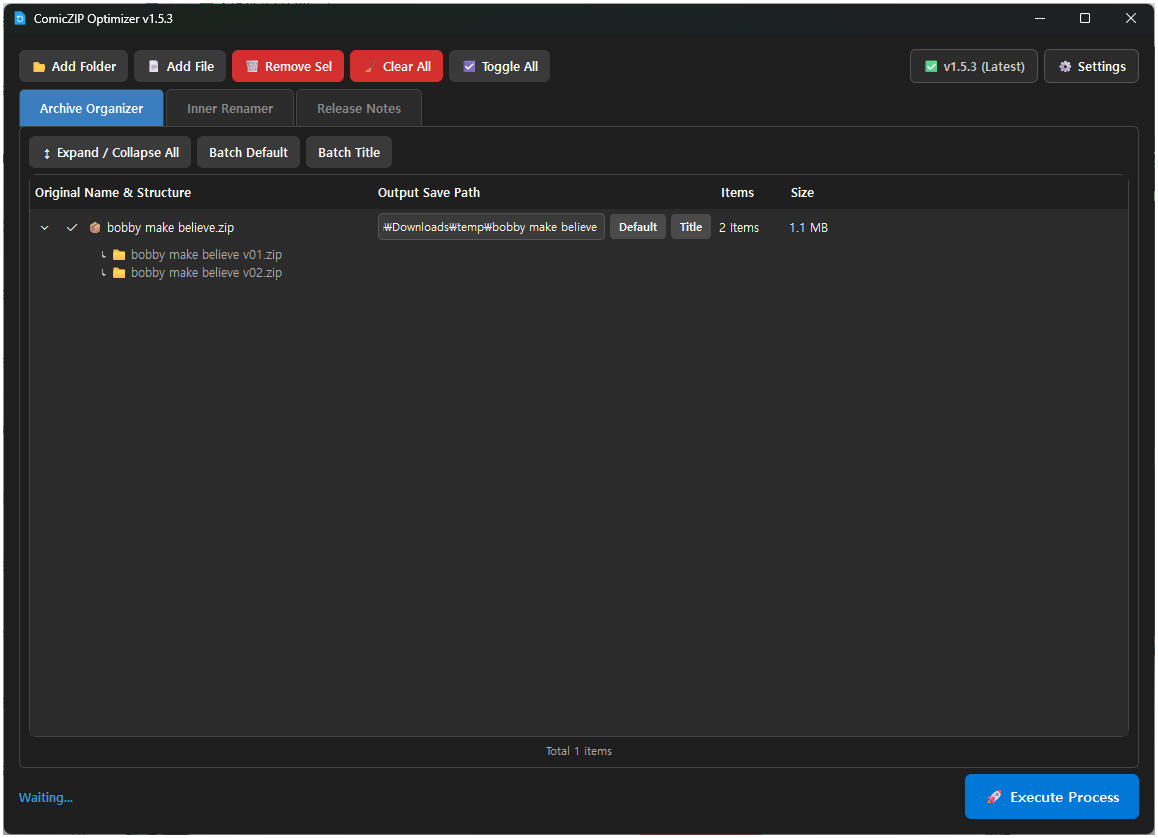
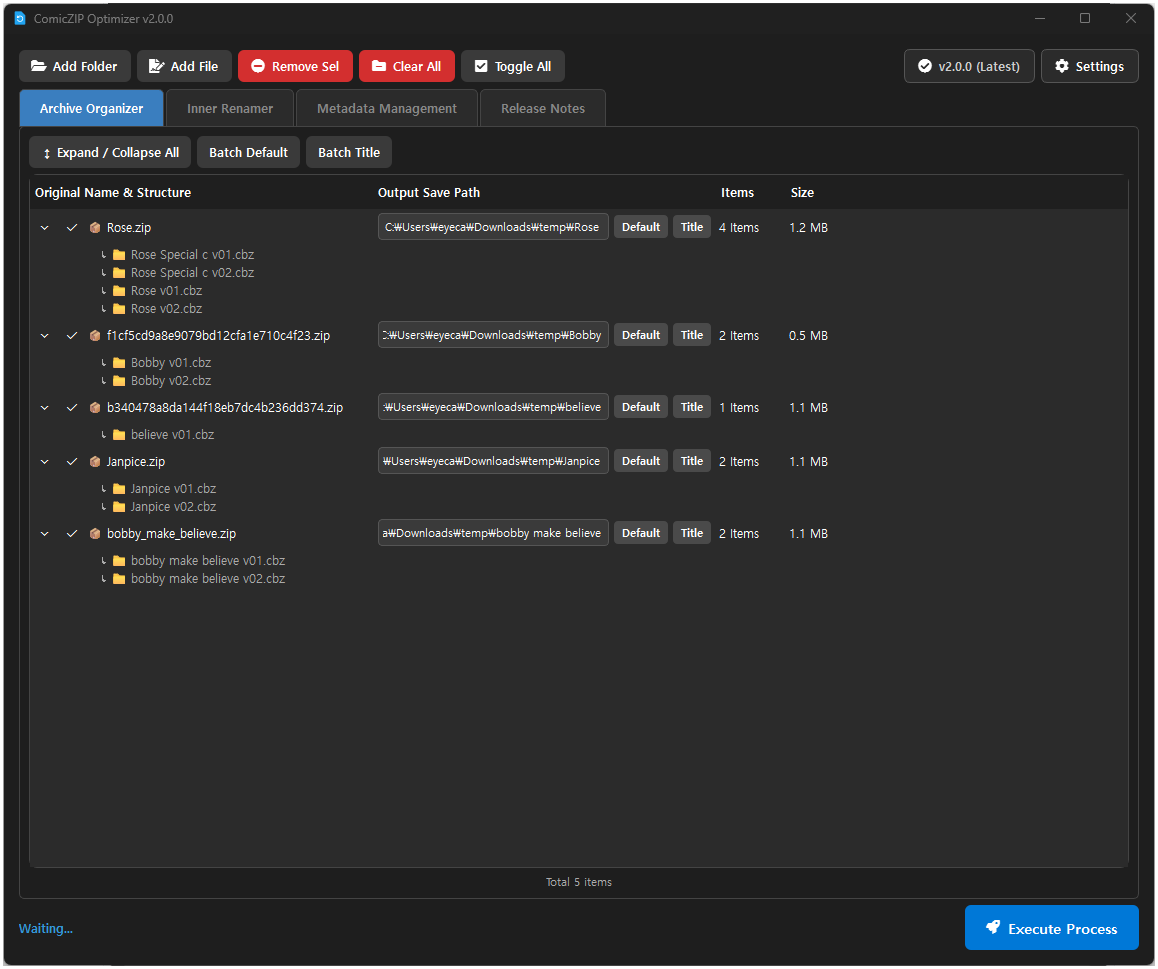
Refactor code structure for improved readability and maintainability

diff --git a/README.md b/README.md
@@ -10,42 +10,52 @@
 ## 🇬🇧 English
 <kbd>![image](https://raw.githubusercontent.com/dongkkase/ComicZIP_Optimizer/main/demo/demo1_en.png)</kbd>
 <kbd>![image](https://raw.githubusercontent.com/dongkkase/ComicZIP_Optimizer/main/demo/demo2_en.png)</kbd>
+<kbd>![image](https://raw.githubusercontent.com/dongkkase/ComicZIP_Optimizer/main/demo/demo3_en.png)</kbd>
+<kbd>![image](https://raw.githubusercontent.com/dongkkase/ComicZIP_Optimizer/main/demo/demo4_en.png)</kbd>
+<kbd>![image](https://raw.githubusercontent.com/dongkkase/ComicZIP_Optimizer/main/demo/demo5_en.png)</kbd>
 
-**ComicZIP Optimizer** is a powerful and smart GUI tool designed for comic/manga collectors and e-book reader users (Plex, Kavita, YACReader, etc.). It automatically renames inner images, flattens nested folders, and converts images to WebP to save disk space—all without manually extracting the archives.
+**ComicZIP Optimizer** is a smart GUI tool designed for comic/manga collectors and e-book reader users (Plex, Kavita, YACReader, Komga, etc.). It helps you easily rename inner images, flatten nested folders, convert images to WebP, and manage metadata—all without manually extracting the archives.
 
 <p align="center">
-  </p>
+</p>
 
 ### ✨ Key Features
 
-**🚀 [NEW] Smart Archive Reorganization (Split & Merge)**
-* Scans integrated archives containing multiple volumes, then intelligently separates, merges, and repackages them into clean, individual volume archives.
-* Provides an intuitive Tree-view preview with an 'Expand/Collapse All' function to easily grasp the internal structure at a glance.
-* High-speed In-Memory scanning previews massive files without extracting them to disk, automatically skipping already organized files.
+**🚀 Metadata Auto-Match & High Search Accuracy**
+* **Enhanced Search Rate:** Supports 5 major databases (Ridibooks, Aladin, Comic Vine, Anilist, Google Books) to provide highly accurate search results for both local and foreign comics.
+* **Series Auto-Match:** Scans folder names to fetch and apply the best metadata to all books in a series with a single click.
+* Edits and saves standard `ComicInfo.xml` metadata inside archives (ZIP, CBZ, 7Z, RAR, CBR).
 
-**🧠 Intelligent Title & Volume Extraction Engine (Deep Scan Parser)**
-* Ignores meaningless Hash folder names (25+ characters) or generic shells (like `temp`). It deep-scans the archive in reverse to extract the real comic titles.
-* Automatically cleans up bracket tags (e.g., `[High Quality]`) and smartly appends volume identifiers (e.g., 'v') to folders named only with numbers.
+**🌐 Multi-API Search & Smart AI Translation**
+* **AI Smart Translation:** Utilizes OpenAI/Gemini to translate Korean titles to official English release names, greatly improving search success rates on foreign DBs.
+* **Tag Standardization:** Define custom rules (e.g., `Shounen -> Boy`) to unify tags across different APIs.
+* **Multilingual UI:** Supports English, Korean, and Japanese seamlessly.
 
-**🔄 Batch Inner Renaming & Output Path Control**
-* Uniformly renames messy inner image files according to preset rules (e.g., Number padding, English book style, Sync with archive name).
-* Easily control the output destination paths for processed files individually via text input, or batch-change them with a single click.
+**🎨 Remastered UX/UI & Workflow Automation**
+* Features crisp vector icons powered by FontAwesome (`qtawesome`).
+* Non-intrusive **Toast Notifications** prevent workflow interruption.
+* **Scroll Spy Navigation:** The side menu dynamically highlights sections as you scroll through the metadata fields.
+* **Auto Workflow Transfer:** Transfers processed files from the Renamer tab (Tab 2) directly to the Metadata tab (Tab 3) for a smooth workflow.
 
-**📂 Folder Flattening & Perfect Natural Sort**
-* Removes unnecessary nested folders (double/triple depths) that cause reading errors in e-book readers, pulling all images to the root.
-* Employs an improved slash-based Natural Sort algorithm, ensuring folder depth and file order perfectly match Windows File Explorer.
+**🚀 Smart Archive Reorganization**
+* Scans integrated archives containing multiple volumes, separating, merging, and repackaging them into clean, individual volume archives.
+* High-speed In-Memory scanning previews massive files without extracting them to disk.
 
-**⚡ Ultra-fast Multi-threaded WebP Conversion**
-* Batch-converts heavy JPG/PNG images to the highly efficient WebP format, drastically saving disk space.
-* Maximizes conversion speed by utilizing 100% of CPU Multi-threading. Includes a quality slider (supports 100% lossless compression).
+**🧠 Intelligent Title & Volume Extraction**
+* Ignores meaningless Hash folder names and extracts real comic titles by scanning the archive.
+* Cleans up bracket tags and extracts volume/chapter numbers smartly.
 
-**📦 Auto Format Conversion**
-* Freely convert between ZIP, CBZ, CBR, and 7Z formats with a single click.
+**🔄 Batch Inner Renaming & Folder Flattening**
+* Uniformly renames inner image files according to preset rules.
+* Removes unnecessary nested folders (double depths) that cause reading errors in e-book readers, pulling all images to the root.
 
-**🔒 Maximized System Stability & Convenience**
-* **Rock-solid Stability:** Handles thousands of drag-and-dropped files without freezing, completely preventing Windows 11 Explorer crash bugs.
-* **Safe Temp Operations:** Uses unique UUIDs in the system temp folder, preventing write errors and leftover debris even when working directly on Network Drives (NAS).
-* **Convenience:** Smart list auto-selection (enables continuous keyboard deletion), Completion sound toggle, Auto-update notifications, CPU safe limits, and Original backup (.bak) support.
+**⚡ Multi-threaded WebP Conversion**
+* Batch-converts JPG/PNG images to the highly efficient WebP format, saving disk space utilizing CPU Multi-threading.
+
+**🔒 System Stability**
+* Improved SQLite concurrency handling and API Rate Limit (429) protections.
+* Password masking for API keys to enhance security.
+* Safe Temp Operations with unique UUIDs prevent write errors on Network Drives (NAS).
 
 ### 🚀 How to Run
 
@@ -56,12 +66,13 @@
 ### 🛠 Tech Stack
 * Python 3
 * PyQt6 (GUI Framework)
+* QtAwesome (Vector Icons)
 * Pillow (Image Processing)
-* 7-Zip (`7za.exe` for robust archive handling)
+* 7-Zip (`7za.exe` for archive handling)
 
 ### 📝 License
 This project is licensed under the **[MIT License](LICENSE)**.
-* **7-Zip**: This application bundles `7za.exe` (7-Zip standalone console version), which is licensed under the GNU LGPL and unRAR restriction. For more info, visit [7-zip.org](https://www.7-zip.org/).
+* **7-Zip**: This application bundles `7za.exe`, licensed under the GNU LGPL and unRAR restriction. Visit [7-zip.org](https://www.7-zip.org/).
 
 <br>
 
@@ -71,55 +82,66 @@ This project is licensed under the **[MIT License](LICENSE)**.
 ## 🇰🇷 한국어
 <kbd>![image](https://raw.githubusercontent.com/dongkkase/ComicZIP_Optimizer/main/demo/demo1_ko.png)</kbd>
 <kbd>![image](https://raw.githubusercontent.com/dongkkase/ComicZIP_Optimizer/main/demo/demo2_ko.png)</kbd>
-ComicZIP Optimizer(코믹집 옵티마이저)는 만화/코믹스 수집가 및 e-book 리더기(Kavita, Plex, YACReader 등) 사용자를 위한 강력한 GUI 최적화 툴입니다. 
-압축 파일을 일일이 풀지 않고도 내부 이미지 파일명 일괄 변경, 폴더 구조 평탄화, 다중 코어 WebP 변환을 지원하여 관리 편의성과 용량 다이어트를 동시에 제공합니다.
+<kbd>![image](https://raw.githubusercontent.com/dongkkase/ComicZIP_Optimizer/main/demo/demo3_ko.png)</kbd>
+<kbd>![image](https://raw.githubusercontent.com/dongkkase/ComicZIP_Optimizer/main/demo/demo4_ko.png)</kbd>
+<kbd>![image](https://raw.githubusercontent.com/dongkkase/ComicZIP_Optimizer/main/demo/demo5_ko.png)</kbd>
+
+**ComicZIP Optimizer(코믹집 옵티마이저)**는 만화/코믹스 수집가 및 e-book 리더기(Kavita, Plex, YACReader, Komga 등) 사용자를 위한 GUI 기반 라이브러리 최적화 툴입니다. 
+압축 파일을 풀지 않고도 내부 이미지 파일명 일괄 변경, 폴더 구조 평탄화, 다중 코어 WebP 변환, 그리고 메타데이터(`ComicInfo.xml`) 관리까지 간편하게 처리할 수 있습니다.
 
 <p align="center">
-  </p>
+</p>
 
 ### ✨ 주요 기능
 
-**🚀 [NEW] 압축 파일 구조 일괄 정리 (분리 및 병합)**
-* 내부에 여러 권의 책이 섞여 있는 통합 압축파일을 스캔하여, 각 권별로 깔끔하게 분리 및 병합한 후 재압축합니다.
-* 직관적인 트리(Tree) 형태의 미리보기와 '전체 펼치기/접기' 기능을 지원하여 내부 구조를 한눈에 파악할 수 있습니다.
-* 디스크에 압축을 풀지 않는 고속 In-Memory 스캔을 지원하며, 이미 정리가 완료된 파일은 지능적으로 건너뜁니다(Skip).
+**🚀 뛰어난 검색률과 메타데이터 자동 매칭**
+* **높은 검색 정확도:** 리디북스, 알라딘, Comic Vine, Anilist(GraphQL), Google Books 등 5개의 주요 API를 지원하여 국내외 도서의 메타데이터 검색 성공률을 크게 높였습니다.
+* **시리즈 자동 매칭:** 폴더(시리즈) 이름을 기반으로 최적의 메타데이터를 검색하여, 폴더 내 모든 책에 일괄 적용해 줍니다.
+* 압축 파일(ZIP, CBZ, 7Z, RAR, CBR) 내부에 범용 규격인 `ComicInfo.xml` 메타데이터를 직접 편집하고 저장합니다.
 
-**🧠 지능형 타이틀 & 볼륨 추출 엔진 (Deep Scan 파서)**
-* 다운로더가 생성한 무의미한 25자 이상의 해시(Hash) 폴더명이나 껍데기 폴더(`temp` 등)를 무시하고, 내부 가장 깊은 곳을 역탐색하여 진짜 책 제목을 구출해 냅니다.
-* `(미완)`, `[고화질]` 등 불필요한 태그를 자동 정제하며, 단순 숫자 폴더(`01`, `02`)도 자동으로 '권/화' 단위로 스마트하게 네이밍합니다.
+**🌐 다중 DB 검색 및 AI 스마트 번역**
+* **AI 스마트 번역:** OpenAI 및 Gemini API를 활용하여 해외 DB 검색 시 한글 제목을 공식 영문 발매명으로 치환하여 검색 정확도를 한층 더 끌어올렸습니다.
+* **태그 표준화 규칙:** 사용자 환경설정에서 나만의 치환 규칙(예: `Shounen, 소년만화 -> 소년`)을 등록하여 각기 다른 API의 태그를 일관성 있게 통일할 수 있습니다.
+* **다국어 UI 지원:** 한국어, 영어에 더해 **일본어(日本語)** 환경을 지원합니다.
 
-**🔄 스마트 내부 파일명 변경 & 출력 경로 제어**
-* 난잡한 내부 이미지 이름을 규칙에 맞게 일괄 정리합니다. (예: 기본 숫자 패딩, 영문 도서 스타일, 압축파일명 동기화 등 지원)
-* 완료된 파일이 저장될 출력 경로를 개별 텍스트 필드로 직접 제어하거나, 체크된 항목을 원클릭으로 일괄 변경(기본값/책제목)할 수 있습니다.
+**🎨 직관적인 UX/UI 및 워크플로우 자동화**
+* FontAwesome(`qtawesome`) 벡터 아이콘을 도입하여 깔끔한 디자인을 제공합니다.
+* **토스트(Toast) 알림:** 작업 흐름을 방해하던 중앙 팝업창 대신, 화면 하단에서 부드럽게 나타나는 토스트 알림을 적용했습니다.
+* **스크롤 스파이(Scroll Spy):** 메타데이터 상세 폼에서 스크롤을 내리면, 우측 내비게이션 메뉴가 현재 위치에 맞춰 실시간으로 강조됩니다.
+* **작업 목록 자동 전달:** 탭 2(파일명 변경)에서 최적화 작업이 완료되면, 추가 확인 팝업 없이 탭 3(메타데이터 관리)으로 이동하며 작업 목록을 자연스럽게 전달합니다.
 
-**📂 하위 폴더 평탄화 & 완벽한 자연 정렬 (Natural Sort)**
-* e-book 리더기에서 인식 오류를 일으키는 불필요한 이중/삼중 폴더를 제거하고 이미지를 최상단으로 끌어올립니다.
-* 슬래시(`/`) 기반의 뎁스 인식형 자연 정렬 알고리즘을 적용하여, 폴더 계층과 파일 순서가 윈도우 탐색기와 완벽하게 동일하게 정렬됩니다.
+**📦 압축 파일 구조 일괄 정리 (분리 및 병합)**
+* 내부에 여러 권의 책이 섞여 있는 통합 압축파일을 스캔하여, 각 권별로 분리 및 병합한 후 재압축합니다.
+* 디스크에 압축을 풀지 않는 In-Memory 스캔을 지원하며, 트리(Tree) 형태의 미리보기를 제공합니다.
 
-**⚡ 초고속 다중 스레드 WebP 변환**
-* 무거운 JPG/PNG 이미지를 고효율 WebP 포맷으로 일괄 변환하여 디스크 용량을 획기적으로 절약합니다.
-* 다중 코어(Multi-threading)를 100% 활용해 변환 속도를 극대화했으며, 화질 조절 슬라이더(100% 무손실 압축 포함)를 제공합니다.
+**🧠 지능형 타이틀 & 볼륨 추출 엔진**
+* 의미 없는 긴 해시(Hash) 폴더명 등을 무시하고 압축 파일 스캔을 통해 실제 책 제목을 추출합니다.
+* 불필요한 태그를 정제하고, 권/화(Volume/Chapter) 번호를 지능적으로 분석합니다.
 
-**📦 포맷 자동 변환**
-* ZIP, CBZ, CBR, 7Z 파일 간의 포맷을 클릭 한 번으로 자유롭게 변환합니다.
+**🔄 내부 파일명 변경 & 하위 폴더 평탄화**
+* 난잡한 내부 이미지 이름을 규칙에 맞게 일괄 정리합니다.
+* e-book 리더기에서 인식 오류를 일으키는 불필요한 하위 폴더를 제거하여 이미지를 최상단으로 정리합니다.
 
-**🔒 극대화된 시스템 안정성 및 편의성**
-* **메모리 안정성 보장:** 수천 개의 파일을 드래그 앤 드롭해도 뻗지 않으며, 윈도우 11 파일 탐색기 충돌(튕김) 현상을 원천 차단했습니다.
-* **안전한 임시 폴더 운용:** 시스템 임시 폴더에 고유 식별자(UUID)를 부여해 작업하므로, 네트워크 드라이브(NAS) 작업 시에도 쓰기 오류나 잔여 찌꺼기가 남지 않습니다.
-* **사용자 편의성:** 스마트 리스트 자동 선택(마우스 없이 연속 삭제 가능), 작업 완료 알림음(On/Off), 자동 업데이트 알림, CPU 안전 제한(Safe Limit), 원본 백업(bak)을 완벽 지원합니다.
+**⚡ 다중 스레드 WebP 변환**
+* 용량이 큰 JPG/PNG 이미지를 고효율 WebP 포맷으로 변환하여 디스크 공간을 절약합니다. (CPU 다중 코어 활용)
+
+**🔒 시스템 안정성**
+* SQLite 다중 스레드 동시성 에러(Lock) 방지 및 API 과부하(Rate Limit) 대응 로직을 적용했습니다.
+* API Key 입력 란에 패스워드 마스킹 및 토글 버튼을 추가하여 보안성을 개선했습니다.
 
 ### 🚀 실행 방법
 
 1. [Releases](https://github.com/dongkkase/ComicZIP_Optimizer/releases) 페이지로 이동합니다.
 2. 최신 버전의 `ComicZIP_Optimizer.zip` 파일을 다운로드합니다.
-3. 압축을 풀고 안에 있는 실행 파일(`.exe`)을 바로 실행하세요. (별도의 설치가 필요 없는 포터블 버전입니다.)
+3. 압축을 풀고 안에 있는 실행 파일(`.exe`)을 실행하세요. (별도 설치 불필요)
 
 ### 🛠 사용 기술
 * Python 3
 * PyQt6 (UI 프레임워크)
+* QtAwesome (벡터 아이콘)
 * Pillow (이미지 처리)
 * 7-Zip (`7za.exe` 압축 엔진)
 
 ### 📝 라이선스 (License)
-이 프로젝트는 **[MIT License](LICENSE)** 를 따릅니다. 누구나 자유롭게 사용, 수정, 배포할 수 있습니다.
+이 프로젝트는 **[MIT License](LICENSE)** 를 따릅니다.
 * **7-Zip**: 본 프로그램은 파일 압축/해제를 위해 `7za.exe`를 내부적으로 사용하며, 해당 파일은 GNU LGPL 라이선스를 따릅니다. 자세한 정보는 [7-zip.org](https://www.7-zip.org/)에서 확인할 수 있습니다.
